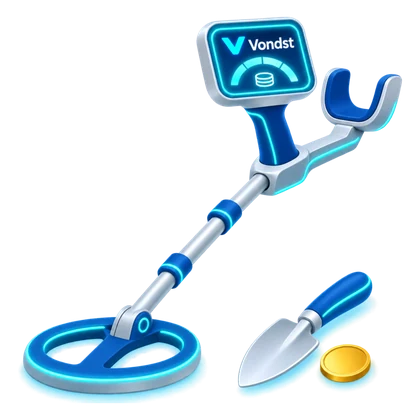
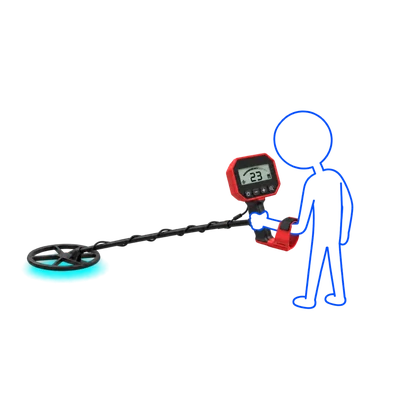
Vondst-app: nieuw welkomstplaatje en plaatje bij lege lijst van Nova
Claude-Session: https://claude.ai/code/session_01UosjxgzjLT3aTts3jtDDbK

Changed region(s): [[0.031, 0.031, 0.9595, 0.9595]]

diff --git a/vondst/sw.js b/vondst/sw.js
@@ -1,5 +1,5 @@
 // Eenvoudige offline-cache: eigen bestanden eerst van internet (zodat updates aankomen), anders uit de cache.
-const CACHE = 'vondst-v23';
+const CACHE = 'vondst-v24';
 const BESTANDEN = ['./', 'index.html', 'app.js', 'manifest.webmanifest', 'icon-192.png',
   'https://unpkg.com/leaflet@1.9.4/dist/leaflet.css', 'https://unpkg.com/leaflet@1.9.4/dist/leaflet.js'];
 self.addEventListener('install', e => { e.waitUntil(caches.open(CACHE).then(c => c.addAll(BESTANDEN)).catch(() => {})); self.skipWaiting(); });
